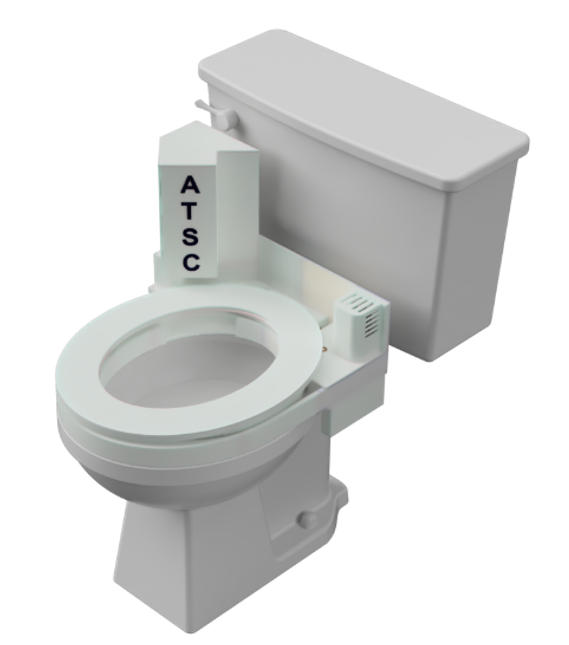
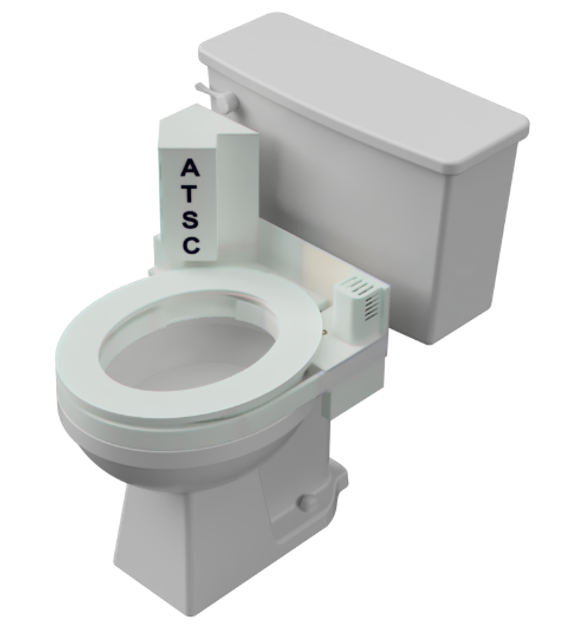
Image PP33 and index.html updated.

diff --git a/index.html b/index.html
@@ -1,3 +1,4 @@
+@ -1,216 +0,0 @@
 <!DOCTYPE html>
 <html>
 <head>
@@ -59,8 +60,8 @@ div.first {
 
 
 <!-- Image Header -->
-<div class="w3-display-container w3-animate-opacity hello">
-  <img src="images/PP33.png" alt="boat" style="width:80%;height: 80%;">
+<div class="w3-display-container w3-animate-opacity w3-center hello">
+  <img src="images/PP33.png" alt="boat" style="width:40%;height: 90%;">
 </div>
 
 
